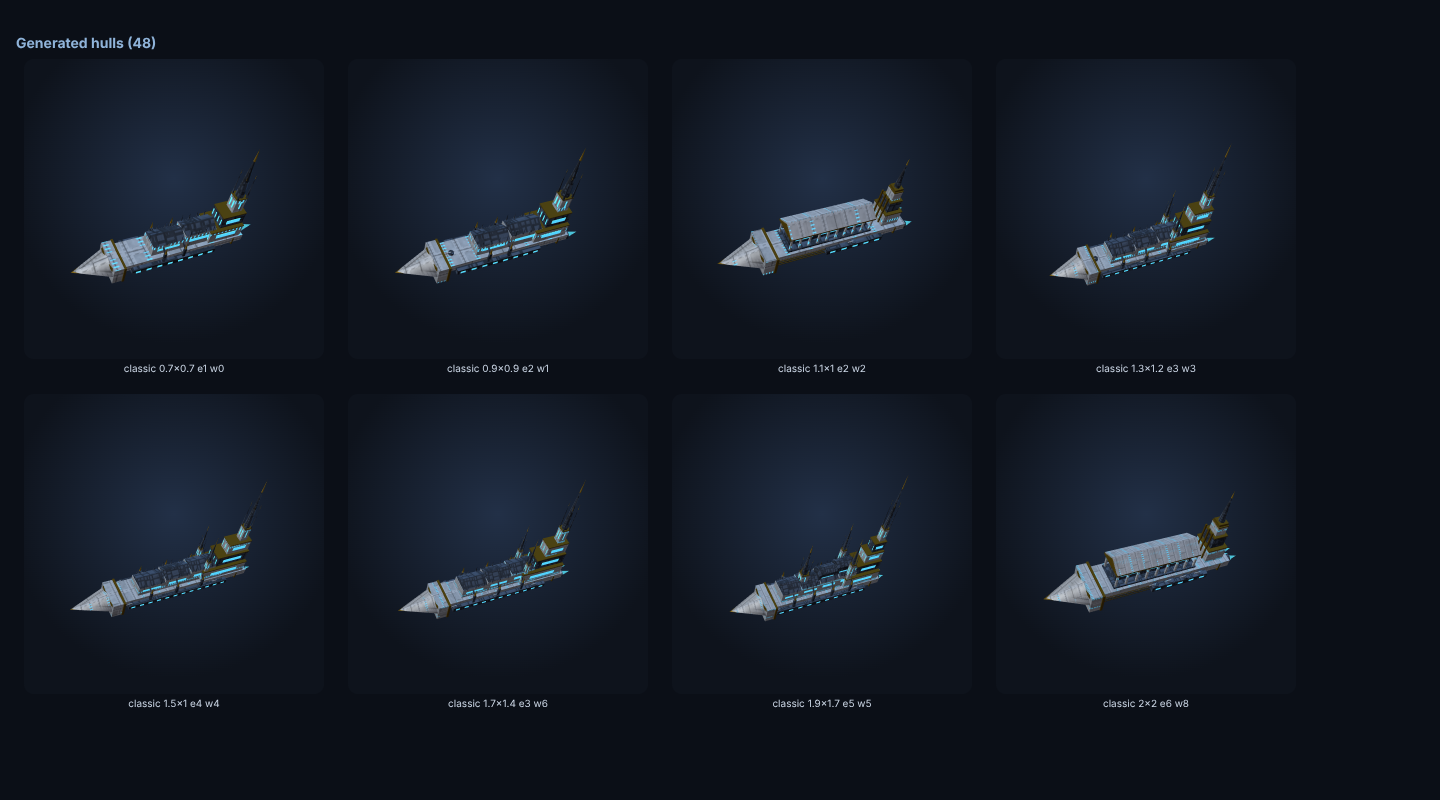
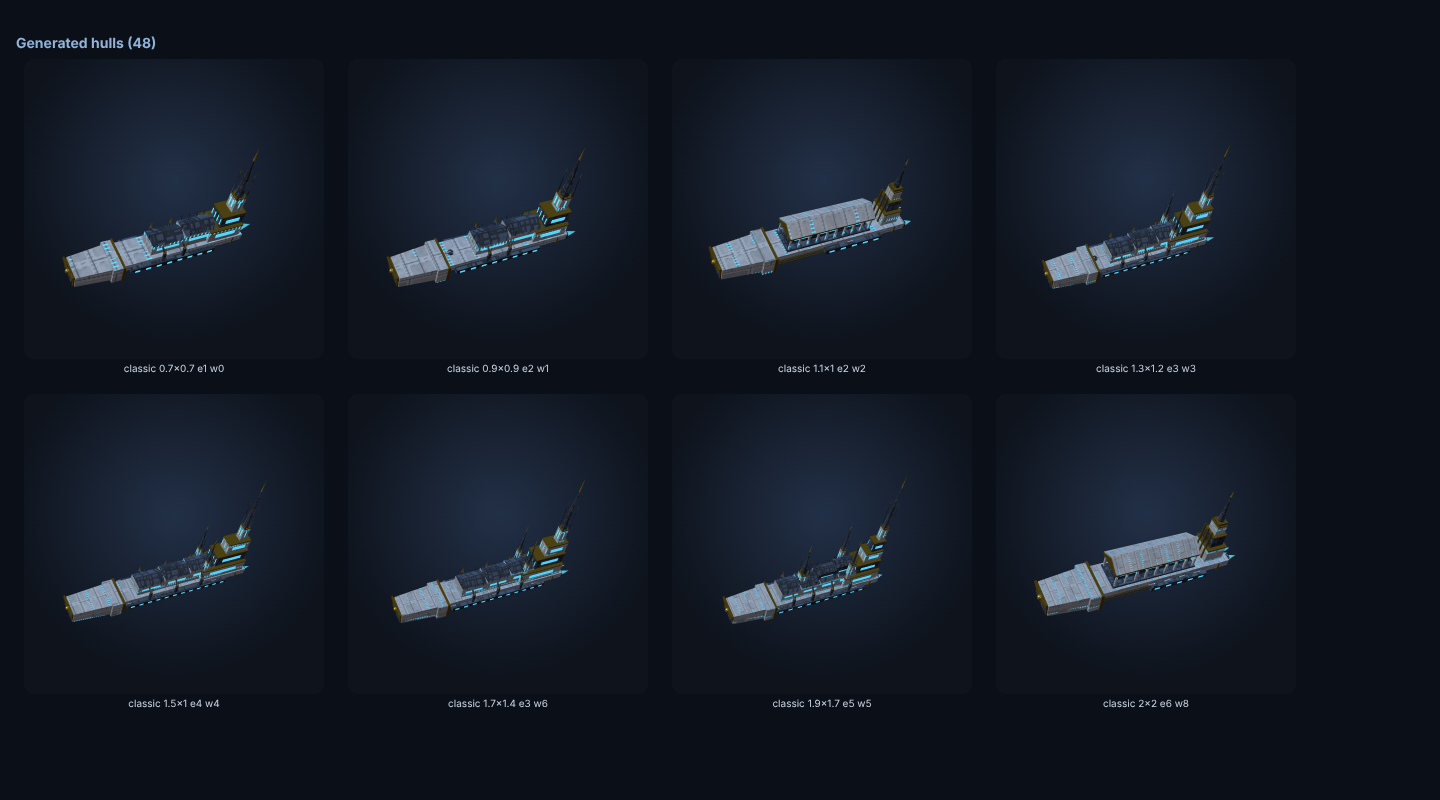
Classic: blunt armoured prows, no pointed rams
The diamond ram and its gilt beak are gone: the prow is a flat-faced
armour block, a little narrower at the face, armoured in a dark plate
framed in gilt with the eagle on it. The Classic accent's cone beak is a
flat gilt-framed armour plate too.

Claude-Session: https://claude.ai/code/session_01RFd2NobsCAQkqGF2dc4pgE

diff --git a/src/render/ships/styles/ClassicStyle.ts b/src/render/ships/styles/ClassicStyle.ts
@@ -5,7 +5,7 @@ import { classicAccent } from './accents';
 
 /**
  * Classic: gothic cathedral warships, after Battlefleet Gothic, with Roman and art deco variants.
- * A long armoured hull behind a diamond ram, a nave of decks stepping up toward a spired bridge
+ * A long armoured hull behind a blunt armoured prow, a nave of decks stepping up toward a spired bridge
  * tower at the stern, flying buttresses down the flanks, broadside batteries on gun decks, gilt
  * bands and an eagle on the prow, a ribbed keel below and a bank of great nozzles astern. Four
  * archetypes, chosen per seed and by size: frigates, cruisers, grand cathedral battleships, and
@@ -38,6 +38,8 @@ interface Hull {
   readonly yt: number;
   readonly zStern: number;
   readonly zProw: number;
+  /** The flat face of the prow block, the front of the ship. */
+  readonly zBow: number;
 }
 
 const UP = new THREE.Vector3(0, 1, 0);
@@ -66,6 +68,20 @@ function strut(kit: ShipKit, a: THREE.Vector3, b: THREE.Vector3, t: number, mate
   kit.add(m, 'detail', (a.x + b.x) / 2, (a.y + b.y) / 2, (a.z + b.z) / 2);
 }
 
+/**
+ * A block `w` by `h` by `len` along z whose front face is `taper` times the size of its back:
+ * a blunt armoured prow, flat-faced (no point).
+ */
+function taperedBlock(w: number, h: number, len: number, taper: number, material: THREE.Material): THREE.Mesh {
+  const geo = new THREE.BoxGeometry(w, h, len);
+  const pos = geo.getAttribute('position');
+  for (let i = 0; i < pos.count; i++) {
+    if (pos.getZ(i) > 0) pos.setXY(i, pos.getX(i) * taper, pos.getY(i) * taper);
+  }
+  geo.computeVertexNormals();
+  return new THREE.Mesh(geo, material);
+}
+
 /** A cone standing up: spires (8 sides) and pinnacles (4 sides). */
 function cone(r: number, h: number, sides: number, material: THREE.Material): THREE.Mesh {
   return new THREE.Mesh(new THREE.ConeGeometry(r, h, sides), material);
@@ -80,7 +96,7 @@ function column(r: number, h: number, material: THREE.Material): THREE.Mesh {
 
 /**
  * The armoured hull: a slab with a vertical prow face, its stern rounded up from the keel; a
- * diamond ram in front, gilt at its root; a keel spine with ribs below.
+ * blunt, flat-faced armoured prow block in front, gilt at its root; a keel spine with ribs below.
  */
 function hull(kit: ShipKit, W: number, yb: number, yt: number, ribs: number): Hull {
   const { L, B, mat } = kit;
@@ -91,18 +107,15 @@ function hull(kit: ShipKit, W: number, yb: number, yt: number, ribs: number): Hu
     [-W * 0.5, yt], [-W * 0.5, yb + H * 0.5], [-W * 0.28, yb], [W * 0.28, yb], [W * 0.5, yb + H * 0.5], [W * 0.5, yt],
   ], zProw - zStern), mat.hull);
   kit.add(body, 'hull', 0, 0, (zProw + zStern) / 2);
-  // The ram: a diamond in section, from the prow face to the bow.
-  const ramLen = L / 2 - zProw;
-  const ram = new THREE.Mesh(new THREE.ConeGeometry(1, ramLen, 4, 1).rotateX(Math.PI / 2), mat.hull);
-  ram.scale.set(W * 0.6, H * 0.64, 1);
-  kit.add(ram, 'hull', 0, yb + H * 0.5, zProw + ramLen / 2 - B * 0.01);
-  // The prow's armour: a block broader and taller than the hull, framed in gilt.
-  kit.add(kit.box(W * 1.2, H * 1.3, L * 0.06, mat.hull), 'hull', 0, yb + H * 0.5, zProw - L * 0.025);
-  kit.add(kit.box(W * 1.26, H * 1.36, L * 0.012, mat.gold), 'detail', 0, yb + H * 0.5, zProw - L * 0.055);
-  // The beak: a gilded tip.
-  const beak = new THREE.Mesh(new THREE.ConeGeometry(1, ramLen * 0.3, 4, 1).rotateX(Math.PI / 2), mat.gold);
-  beak.scale.set(W * 0.17, H * 0.155, 1);
-  kit.add(beak, 'detail', 0, yb + H * 0.5, L / 2 - ramLen * 0.15);
+  // The prow: a blunt armoured block, a little narrower at its flat face, which is armoured in
+  // a darker plate framed in gilt. No point: Classic prows are walls of armour.
+  const prowLen = L / 2 - zProw, yc = yb + H * 0.5;
+  kit.add(taperedBlock(W * 1.05, H * 1.1, prowLen, 0.82, mat.hull), 'hull', 0, yc, zProw + prowLen / 2 - B * 0.01);
+  kit.add(kit.box(W * 0.8, H * 0.84, B * 0.03, mat.gold), 'detail', 0, yc, L / 2 + B * 0.005);
+  kit.add(kit.box(W * 0.66, H * 0.7, B * 0.03, mat.detail), 'detail', 0, yc, L / 2 + B * 0.015);
+  // The prow's armour collar: a block broader and taller than the hull, framed in gilt.
+  kit.add(kit.box(W * 1.2, H * 1.3, L * 0.06, mat.hull), 'hull', 0, yc, zProw - L * 0.025);
+  kit.add(kit.box(W * 1.26, H * 1.36, L * 0.012, mat.gold), 'detail', 0, yc, zProw - L * 0.055);
   // Keel spine and ribs.
   kit.add(kit.box(B * 0.05, B * 0.07, zProw - zStern - L * 0.12, mat.detail), 'detail', 0, yb - B * 0.03, (zProw + zStern) / 2 - L * 0.02);
   for (let i = 0; i < ribs; i++) {
@@ -111,7 +124,7 @@ function hull(kit: ShipKit, W: number, yb: number, yt: number, ribs: number): Hu
   }
   // A gilt band round the stern.
   kit.add(kit.box(W * 1.03, H * 0.6, B * 0.03, mat.gold), 'detail', 0, yb + H * 0.6, zStern + L * 0.06);
-  return { W, yb, yt, zStern, zProw };
+  return { W, yb, yt, zStern, zProw, zBow: L / 2 + B * 0.03 };
 }
 
 /**
@@ -286,7 +299,7 @@ function citadel(kit: ShipKit, zBack: number, zFront: number, yBase: number, w: 
 const unit = (kit: ShipKit): number => kit.B * 0.5 + kit.L * 0.085;
 const width = (kit: ShipKit, k: number): number => Math.max(kit.B * k * 1.15, kit.L * 0.13);
 
-/** A frigate: a ram, a short two-step nave, one spired tower at the stern, a pair of buttresses. */
+/** A frigate: a blunt armoured prow, a short two-step nave, one spired tower at the stern, a pair of buttresses. */
 function buildFrigate(kit: ShipKit): void {
   const { L, mat } = kit;
   const U = unit(kit);
@@ -298,7 +311,7 @@ function buildFrigate(kit: ShipKit): void {
   buttresses(kit, hl, [-L * 0.1, L * 0.02], naveW / 2, top);
   const deck = gunDecks(kit, hl, -L * 0.3, L * 0.2);
   broadsides(kit, kit.design.weapons, deck, -L * 0.24, L * 0.17, { y: hl.yt, z: L * 0.2 });
-  aquila(kit, (hl.yt + hl.yb) / 2 + (hl.yt - hl.yb) * 0.15, hl.zProw + 0.012, hl.W * 0.95);
+  aquila(kit, (hl.yt + hl.yb) / 2 + (hl.yt - hl.yb) * 0.15, hl.zBow + 0.012, hl.W * 0.95);
   engineBank(kit, hl);
 }
 
@@ -316,7 +329,7 @@ function buildCruiser(kit: ShipKit): void {
   buttresses(kit, hl, [-L * 0.2, -L * 0.05, L * 0.1], naveW / 2, top);
   const deck = gunDecks(kit, hl, -L * 0.36, L * 0.22);
   broadsides(kit, kit.design.weapons, deck, -L * 0.3, L * 0.2, { y: hl.yt, z: L * 0.23 });
-  aquila(kit, (hl.yt + hl.yb) / 2 + (hl.yt - hl.yb) * 0.15, hl.zProw + 0.012, hl.W);
+  aquila(kit, (hl.yt + hl.yb) / 2 + (hl.yt - hl.yb) * 0.15, hl.zBow + 0.012, hl.W);
   engineBank(kit, hl);
 }
 
@@ -341,7 +354,7 @@ function buildBattleship(kit: ShipKit): void {
   buttresses(kit, hl, [-L * 0.26, -L * 0.13, L * 0.0, L * 0.13], naveW / 2, lower);
   const deck = gunDecks(kit, hl, -L * 0.38, L * 0.24);
   broadsides(kit, kit.design.weapons, deck, -L * 0.32, L * 0.22, { y: hl.yt, z: L * 0.25 });
-  aquila(kit, (hl.yt + hl.yb) / 2 + (hl.yt - hl.yb) * 0.15, hl.zProw + 0.012, hl.W * 1.05);
+  aquila(kit, (hl.yt + hl.yb) / 2 + (hl.yt - hl.yb) * 0.15, hl.zBow + 0.012, hl.W * 1.05);
   engineBank(kit, hl);
 }
 
@@ -395,6 +408,6 @@ function buildBasilica(kit: ShipKit, size: number): void {
   }
   const deck = gunDecks(kit, hl, -L * 0.34, -L * 0.02);
   broadsides(kit, kit.design.weapons, deck, -L * 0.3, -L * 0.04, { y: hl.yt, z: L * 0.24 });
-  aquila(kit, (hl.yt + hl.yb) / 2 + (hl.yt - hl.yb) * 0.15, hl.zProw + 0.012, hl.W * 0.95);
+  aquila(kit, (hl.yt + hl.yb) / 2 + (hl.yt - hl.yb) * 0.15, hl.zBow + 0.012, hl.W * 0.95);
   engineBank(kit, hl);
 }

diff --git a/src/render/ships/styles/accents.ts b/src/render/ships/styles/accents.ts
@@ -55,7 +55,7 @@ export function technologicalAccent(kit: ShipKit): void {
 
 /**
  * A gothic tower with a gilt-tipped spire and pinnacles on the back, flying buttresses down the
- * flanks, a gilt beak on the bow and a gilt band amidships.
+ * flanks, a flat gilt-framed armour plate on the bow and a gilt band amidships.
  */
 export function classicAccent(kit: ShipKit): void {
   const { size, center } = kit.hullBox();
@@ -77,8 +77,8 @@ export function classicAccent(kit: ShipKit): void {
     }, 'detail', w * 0.75, center.y + w * 0.45, center.z + size.z * dz);
     kit.addMirrored(() => new THREE.Mesh(new THREE.ConeGeometry(0.015 + w * 0.04, 0.05 + w * 0.25, 4), kit.mat.gold), 'detail', w * 1.12, center.y + w * 0.25, center.z + size.z * dz);
   }
-  const beak = new THREE.Mesh(new THREE.ConeGeometry(0.03 + w * 0.2, size.z * 0.12 + 0.1, 4).rotateX(Math.PI / 2), kit.mat.gold);
-  kit.add(beak, 'detail', center.x, center.y, front + size.z * 0.04);
+  kit.add(kit.box(w * 1.1 + 0.04, w * 0.9 + 0.04, 0.03, kit.mat.gold), 'detail', center.x, center.y, front + 0.01);
+  kit.add(kit.box(w * 0.9 + 0.02, w * 0.7 + 0.02, 0.03, kit.mat.detail), 'detail', center.x, center.y, front + 0.02);
   const band = new THREE.Mesh(new THREE.TorusGeometry(w * 1.05, 0.015 + w * 0.04, 6, 24), kit.mat.gold);
   kit.add(band, 'detail', center.x, center.y, center.z + size.z * 0.15);
 }
